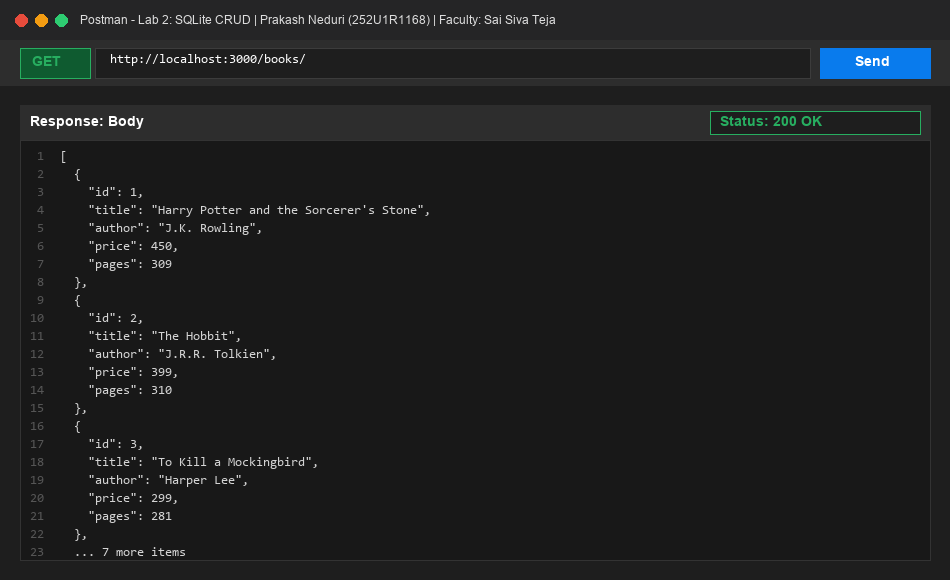
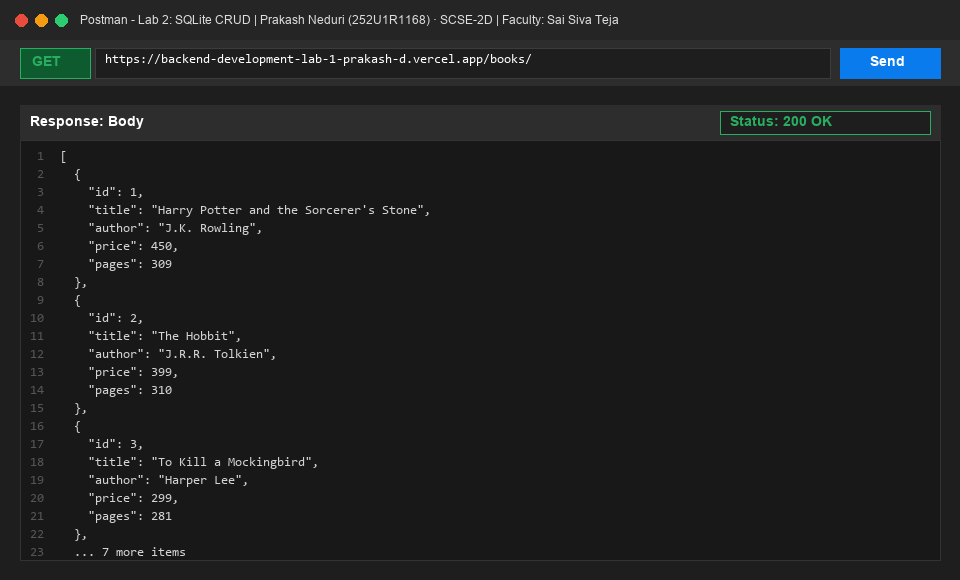
docs(lab-02): update Postman screenshots with live Vercel URL and updated metadata

diff --git a/lab-02/README.md b/lab-02/README.md
@@ -191,7 +191,7 @@ GET /books/11/ -> Status: 404 (Not Found)
 ## Screenshots
 
 ### 1. GET /books/ (All Books)
-- **Endpoint:** `GET http://localhost:3000/books/`
+- **Endpoint:** `GET https://backend-development-lab-1-prakash-d.vercel.app/books/` *(or `http://localhost:3000/books/`)*
 - **Status Code:** `200 OK`
 - **Description:** Returns JSON array containing all book records in the database.
 
@@ -200,7 +200,7 @@ GET /books/11/ -> Status: 404 (Not Found)
 ---
 
 ### 2. GET /books/:bookId/ (Single Book)
-- **Endpoint:** `GET http://localhost:3000/books/1/`
+- **Endpoint:** `GET https://backend-development-lab-1-prakash-d.vercel.app/books/1/` *(or `http://localhost:3000/books/1/`)*
 - **Status Code:** `200 OK`
 - **Description:** Returns details of the book matching the requested `bookId`.
 
@@ -209,7 +209,7 @@ GET /books/11/ -> Status: 404 (Not Found)
 ---
 
 ### 3. POST /books/ (Add Book)
-- **Endpoint:** `POST http://localhost:3000/books/`
+- **Endpoint:** `POST https://backend-development-lab-1-prakash-d.vercel.app/books/` *(or `http://localhost:3000/books/`)*
 - **Status Code:** `201 Created`
 - **Description:** Inserts a new book into SQLite and returns the generated `bookId`.
 
@@ -218,7 +218,7 @@ GET /books/11/ -> Status: 404 (Not Found)
 ---
 
 ### 4. PUT /books/:bookId/ (Update Book)
-- **Endpoint:** `PUT http://localhost:3000/books/11/`
+- **Endpoint:** `PUT https://backend-development-lab-1-prakash-d.vercel.app/books/11/` *(or `http://localhost:3000/books/11/`)*
 - **Status Code:** `200 OK`
 - **Description:** Updates the book's title, price, or pages in SQLite using parameterized queries.
 
@@ -227,7 +227,7 @@ GET /books/11/ -> Status: 404 (Not Found)
 ---
 
 ### 5. DELETE /books/:bookId/ (Remove Book)
-- **Endpoint:** `DELETE http://localhost:3000/books/11/`
+- **Endpoint:** `DELETE https://backend-development-lab-1-prakash-d.vercel.app/books/11/` *(or `http://localhost:3000/books/11/`)*
 - **Status Code:** `200 OK`
 - **Description:** Permanently removes the book record from the SQLite database.
 
@@ -236,7 +236,7 @@ GET /books/11/ -> Status: 404 (Not Found)
 ---
 
 ### 6. GET /books/:bookId/ (404 Error Handling)
-- **Endpoint:** `GET http://localhost:3000/books/999/`
+- **Endpoint:** `GET https://backend-development-lab-1-prakash-d.vercel.app/books/999/` *(or `http://localhost:3000/books/999/`)*
 - **Status Code:** `404 Not Found`
 - **Description:** Returns an informative JSON error message when requesting an ID that does not exist.
 
